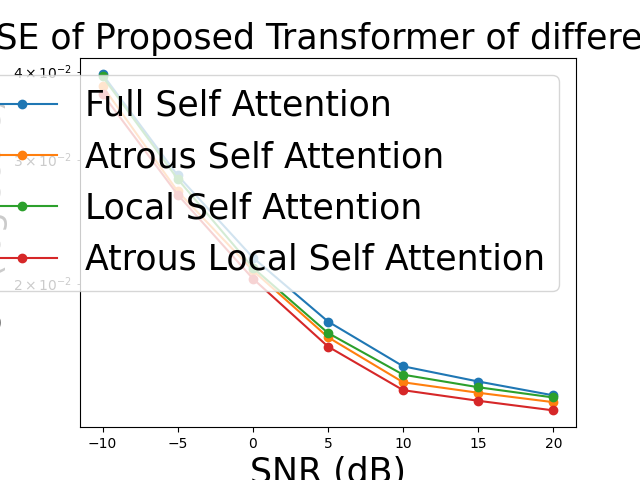
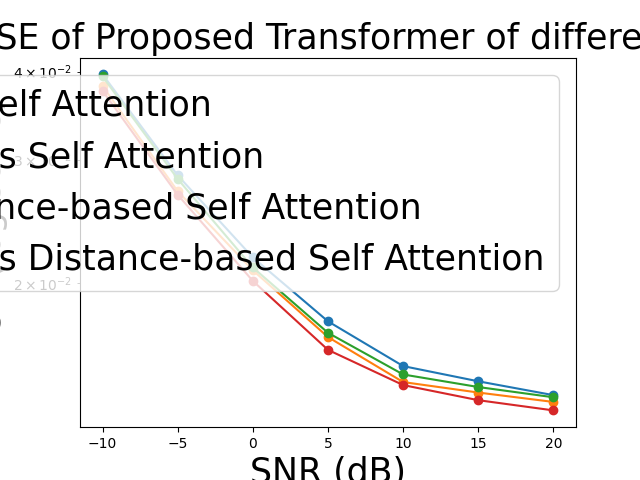
message

diff --git a/SPR-CNN/result-modality-transformer.py b/SPR-CNN/result-modality-transformer.py
@@ -99,15 +99,15 @@ y5 = [value / 10 for value in y5]
 y6 = [value / 10 for value in y6]
 
 # add title and axis labels
-plt.title('Comparison of sum rate of CNN and Transformers and Proposed Transformer', fontsize=fontsize)
+plt.title('Comparison of Sum Rate of CNN and Transformers and Proposed Transformer', fontsize=fontsize)
 plt.xlabel('SNR (dB)', fontsize=fontsize)
-plt.ylabel('sum rate(bandwith = 1) (log scale)', fontsize=fontsize)
+plt.ylabel('Sum Rate(bandwith = 1) (log scale)', fontsize=fontsize)
 
 # add legend
 plt.legend(fontsize=fontsize)
 
 # save the plot
-plt.savefig('Comparison of sum rate of CNN and Transformers and Proposed Transformer')
+plt.savefig('Comparison of Sum Rate of CNN and Transformers and Proposed Transformer')
 
 # display the plot
 plt.grid(True)
@@ -235,15 +235,15 @@ plt.plot(x, y2, marker='o', label='Proposed Transformer(Frequency domain & cross
 plt.yscale('log')
 
 # add title and axis labels
-plt.title('Comparison of sum rate of Proposed Transformer and Others', fontsize=fontsize)
+plt.title('Comparison of Sum Rate of Proposed Transformer and Others', fontsize=fontsize)
 plt.xlabel('SNR (dB)', fontsize=fontsize)
-plt.ylabel('sum rate(bandwith = 1) (log scale)', fontsize=fontsize)
+plt.ylabel('Sum Rate(bandwith = 1) (log scale)', fontsize=fontsize)
 
 # add legend
 plt.legend(fontsize=18)
 
 # save the plot
-plt.savefig('Comparison of sum rate of Proposed Transformer and Others')
+plt.savefig('Comparison of Sum Rate of Proposed Transformer and Others')
 
 # display the plot
 plt.grid(True)
@@ -251,7 +251,7 @@ plt.show()
 ####################################################################################################################
 # 比例值
 values = [1.0, 0.5, 7/16, 4/16]
-labels = ['Full Self Attention', 'Atrous Self Attention', 'Local Self Attention', 'Atrous Local Self Attention']
+labels = ['Full Self Attention', 'Atrous Self Attention', 'Distance-based Self Attention', 'Atrous Distance-based Self Attention']
 
 # 创建条形图
 plt.bar(labels, values)
@@ -286,22 +286,22 @@ y1 = [0.039645493030548096, 0.02848387509584427, 0.02177749201655388, 0.01766580
 y2 = [0.038145072758197784, 0.027047526091337204, 0.02087853103876114, 0.016779784113168716, 0.014481263235211372, 0.01399294938892126, 0.01356890331953764]
 
 # Transformers(Encoder * 2 + Decoder * 2, (16 * 32 * 4)), epochs = 200, lr = 0.0001, batch_size = 32
-# 自己寫的 multi-head self attention, Local Self Attention
+# 自己寫的 multi-head self attention, Distance Self Attention
 # encoder ff layer 用 Conv1D, decoder ff layer 用 ffn
 # modality-aware transformers
 y3 = [0.039379578083753586, 0.028154458850622177, 0.021071387454867363, 0.017013927921652794, 0.014845786616206169, 0.014248121529817581, 0.0137781398370862]
 
 # Transformers(Encoder * 2 + Decoder * 2, (16 * 32 * 4)), epochs = 200, lr = 0.0001, batch_size = 32
-# 自己寫的 multi-head self attention, atrous_and_local_self_attention, d = 2, windows = 6
+# 自己寫的 multi-head self attention, atrous_and_distance_self_attention, d = 2, windows = 6
 # encoder ff layer 用 Conv1D, decoder ff layer 用 ffn
 # modality-aware transformers
-y4 = [0.03719576820731163, 0.02675441838800907, 0.02032649889588356, 0.016275744885206223, 0.014112374745309353, 0.01363054383546114, 0.013208819553256035]
+y4 = [0.037573281675577164, 0.026736173778772354, 0.02016441710293293, 0.016090845689177513, 0.014339765533804893, 0.013647235929965973, 0.013198921456933022]
 
 # draw
 plt.plot(x, y1, marker='o', label='Full Self Attention')
 plt.plot(x, y2, marker='o', label='Atrous Self Attention')
-plt.plot(x, y3, marker='o', label='Local Self Attention')
-plt.plot(x, y4, marker='o', label='Atrous Local Self Attention')
+plt.plot(x, y3, marker='o', label='Distance-based Self Attention')
+plt.plot(x, y4, marker='o', label='Atrous Distance-based Self Attention')
 
 
 # set y-axis to log scale
@@ -339,16 +339,16 @@ y1 = [15.49264954985823, 15.594047444695512, 15.65463062254004, 15.6916487854271
 y2 = [15.506321704157296, 15.60704432309743, 15.662732238044741, 15.6996133959397, 15.720254642621406, 15.724635949414886, 15.728439669153394]
 
 # Transformers(Encoder * 2 + Decoder * 2, (16 * 32 * 4)), epochs = 200, lr = 0.0001, batch_size = 32
-# 自己寫的 multi-head self attention, Local Self Attention
+# 自己寫的 multi-head self attention, Distance Self Attention
 # encoder ff layer 用 Conv1D, decoder ff layer 用 ffn
 # modality-aware transformers
 y3 = [15.495073466994242, 15.597029174869308, 15.660994609097447, 15.697509075343214, 15.716983071441868, 15.722346618774578, 15.726562977136382]
 
 # Transformers(Encoder * 2 + Decoder * 2, (16 * 32 * 4)), epochs = 200, lr = 0.0001, batch_size = 32
-# 自己寫的 multi-head self attention, atrous_and_local_self_attention, d = 2, windows = 6
+# 自己寫的 multi-head self attention, atrous_and_distance_self_attention, d = 2, windows = 6
 # encoder ff layer 用 Conv1D, decoder ff layer 用 ffn
 # modality-aware transformers
-y4 = [15.514965219088664, 15.609695093405547, 15.667704968574576, 15.704142340486547, 15.723564602694648, 15.727886811139943, 15.7316688188335]
+y4 = [15.511528572054784, 15.609860095464892, 15.669164710042915, 15.705803269277581, 15.721524322830959, 15.727737112861892, 15.731757566231902]
 
 
 y1 = [value / 10 for value in y1]
@@ -359,23 +359,23 @@ y4 = [value / 10 for value in y4]
 # draw
 plt.plot(x, y1, marker='o', label='Full Self Attention')
 plt.plot(x, y2, marker='o', label='Atrous Self Attention')
-plt.plot(x, y3, marker='o', label='Local Self Attention')
-plt.plot(x, y4, marker='o', label='Atrous Local Self Attention')
+plt.plot(x, y3, marker='o', label='Distance-based Self Attention')
+plt.plot(x, y4, marker='o', label='Atrous Distance-based Self Attention')
 
 
 # set y-axis to log scale
 plt.yscale('log')
 
 # add title and axis labels
-plt.title('Comparison of sum rate of Proposed Transformer of different Sparse Attention', fontsize=fontsize)
+plt.title('Comparison of Sum Rate of Proposed Transformer of different Sparse Attention', fontsize=fontsize)
 plt.xlabel('SNR (dB)', fontsize=fontsize)
-plt.ylabel('sum rate(bandwith = 1) (log scale)', fontsize=fontsize)
+plt.ylabel('Sum Rate(bandwith = 1) (log scale)', fontsize=fontsize)
 
 # add legend
 plt.legend(fontsize=fontsize)
 
 # save the plot
-plt.savefig('Comparison of sum rate of Proposed Transformer of different Sparse Attention')
+plt.savefig('Comparison of Sum Rate of Proposed Transformer of different Sparse Attention')
 
 # display the plot
 plt.grid(True)

diff --git a/SPR-CNN/sparse_attention.py b/SPR-CNN/sparse_attention.py
@@ -96,8 +96,8 @@ class Multi_Head_Attention(tf.keras.layers.Layer):
             # mask = random_self_attention_mask(N = seq_len, Probability = 0.5)
             # mask = local_self_attention_mask(N = seq_len, window_size = 6)
             # mask = stride_sparse_self_attention_mask(N = seq_len, local_range = 2, stride = 2)
-            # mask = atrous_and_local_self_attention_mask(N = seq_len, dilation_rate = 2, window_size = 6)
-            # scores = scores * mask - tf.constant(1e10, dtype=tf.float32) * (1 - mask)
+            mask = atrous_and_distance_self_attention_mask(N = seq_len, dilation_rate = 2)
+            scores = scores * mask - tf.constant(1e10, dtype=tf.float32) * (1 - mask)
 
             # Apply softmax for attention weights
             attention_weights = tf.nn.softmax(scores, axis=-1)  # (B, L, L)
@@ -170,8 +170,8 @@ class Inter_Modal_Multi_Head_Attention(tf.keras.layers.Layer):
             # mask = random_self_attention_mask(N = seq_len, Probability = 0.5)
             # mask = local_self_attention_mask(N = seq_len, window_size = 6)
             # mask = stride_sparse_self_attention_mask(N = seq_len, local_range = 2, stride = 2)
-            # mask = atrous_and_local_self_attention_mask(N = seq_len, dilation_rate = 2, window_size = 6)
-            # scores = scores * mask - tf.constant(1e10, dtype=tf.float32) * (1 - mask)
+            mask = atrous_and_distance_self_attention_mask(N = seq_len, dilation_rate = 2)
+            scores = scores * mask - tf.constant(1e10, dtype=tf.float32) * (1 - mask)
 
             # Apply softmax for attention weights
             attention_weights = tf.nn.softmax(scores, axis=-1)  # (B, L, L)
@@ -233,7 +233,7 @@ def random_self_attention_mask(N, Probability):
     mask = (mask >= Probability).astype(int)
     return mask
 
-def atrous_and_local_self_attention_mask(N, dilation_rate, window_size):
+def atrous_and_distance_self_attention_mask(N, dilation_rate):
     # [[1. 0. 1. 0. 1. 0.]
     #  [0. 1. 0. 1. 0. 1.]
     #  [1. 0. 1. 0. 1. 0.]
@@ -243,7 +243,8 @@ def atrous_and_local_self_attention_mask(N, dilation_rate, window_size):
     mask = np.zeros((N, N))
     for i in range(N):
         for j in range(N):
-            if abs(i - j) % dilation_rate == 0 and abs(i - j) <= window_size:
+            # abs(i - j) % dilation_rate == 0 and 
+            if ((abs(i - j) <= 6 and abs(i - j) >= 0) or (abs(i - j) <= 10 and abs(i - j) >= 9) or (abs(i - j) <= 14 and abs(i - j) >= 13)):
                 mask[i, j] = 1
     return mask
 

diff --git a/SPR-CNN/loop.py b/SPR-CNN/loop.py
@@ -17,15 +17,45 @@ with open('output.txt', 'a') as f:
 base_command = "python3 modality-aware.py"
 
 # 要执行的 SNR_dB 参数的范围
-SNR_dB_range = range(-10, 501, 5)
+SNR_dB_range = range(-10, 101, 5)
 
 # 遍历 SNR_dB 参数的范围
 for SNR_dB in SNR_dB_range:
+    # 构建完整的命令字符串
+    command = f"{base_command} -10"
+    
+    # 执行命令
+    result = subprocess.run(command, shell=True)
+    # 构建完整的命令字符串
+    command = f"{base_command} -5"
+    
+    # 执行命令
+    result = subprocess.run(command, shell=True)
+    # 构建完整的命令字符串
+    command = f"{base_command} 0"
+    
+    # 执行命令
+    result = subprocess.run(command, shell=True)
+    # 构建完整的命令字符串
+    command = f"{base_command} 5"
+    
+    # 执行命令
+    result = subprocess.run(command, shell=True)
+    # 构建完整的命令字符串
+    command = f"{base_command} 10"
+    
+    # 执行命令
+    result = subprocess.run(command, shell=True)
     # 构建完整的命令字符串
     command = f"{base_command} 15"
     
     # 执行命令
     result = subprocess.run(command, shell=True)
+    # 构建完整的命令字符串
+    command = f"{base_command} 20"
+    
+    # 执行命令
+    result = subprocess.run(command, shell=True)    
     
     # 检查命令的执行结果
     if result.returncode == 0:
@@ -51,5 +81,5 @@ def swap_and_delete(filename):
 
 # 使用示例
 filename = "output.txt"  # 修改为你要处理的文件名
-swap_and_delete(filename)
+# swap_and_delete(filename)
 

diff --git a/SPR-CNN/modality-aware.py b/SPR-CNN/modality-aware.py
@@ -458,17 +458,7 @@ model.fit(H_train_noisy, H_train, epochs=epochs_num, batch_size=batch_size_num, 
 
 # load model
 CNN = tf.keras.models.load_model('CNN_UMi_3path_2fre_SNRminus10dB_200ep.tf')
-
-for i in range(10):
-    # start time
-    start_time = time.time()
-    decoded_channel = CNN.predict(H_test_noisy)
-
-    # end time
-    end_time = time.time()
-    # 计算执行时间
-    execution_time = end_time - start_time
-    print("执行时间：", execution_time, "秒")
+decoded_channel = CNN.predict(H_test_noisy)
 
 nmse2=zeros((data_num_test-len(row_num),1), dtype=float)
 for n in range(data_num_test-len(row_num)):
